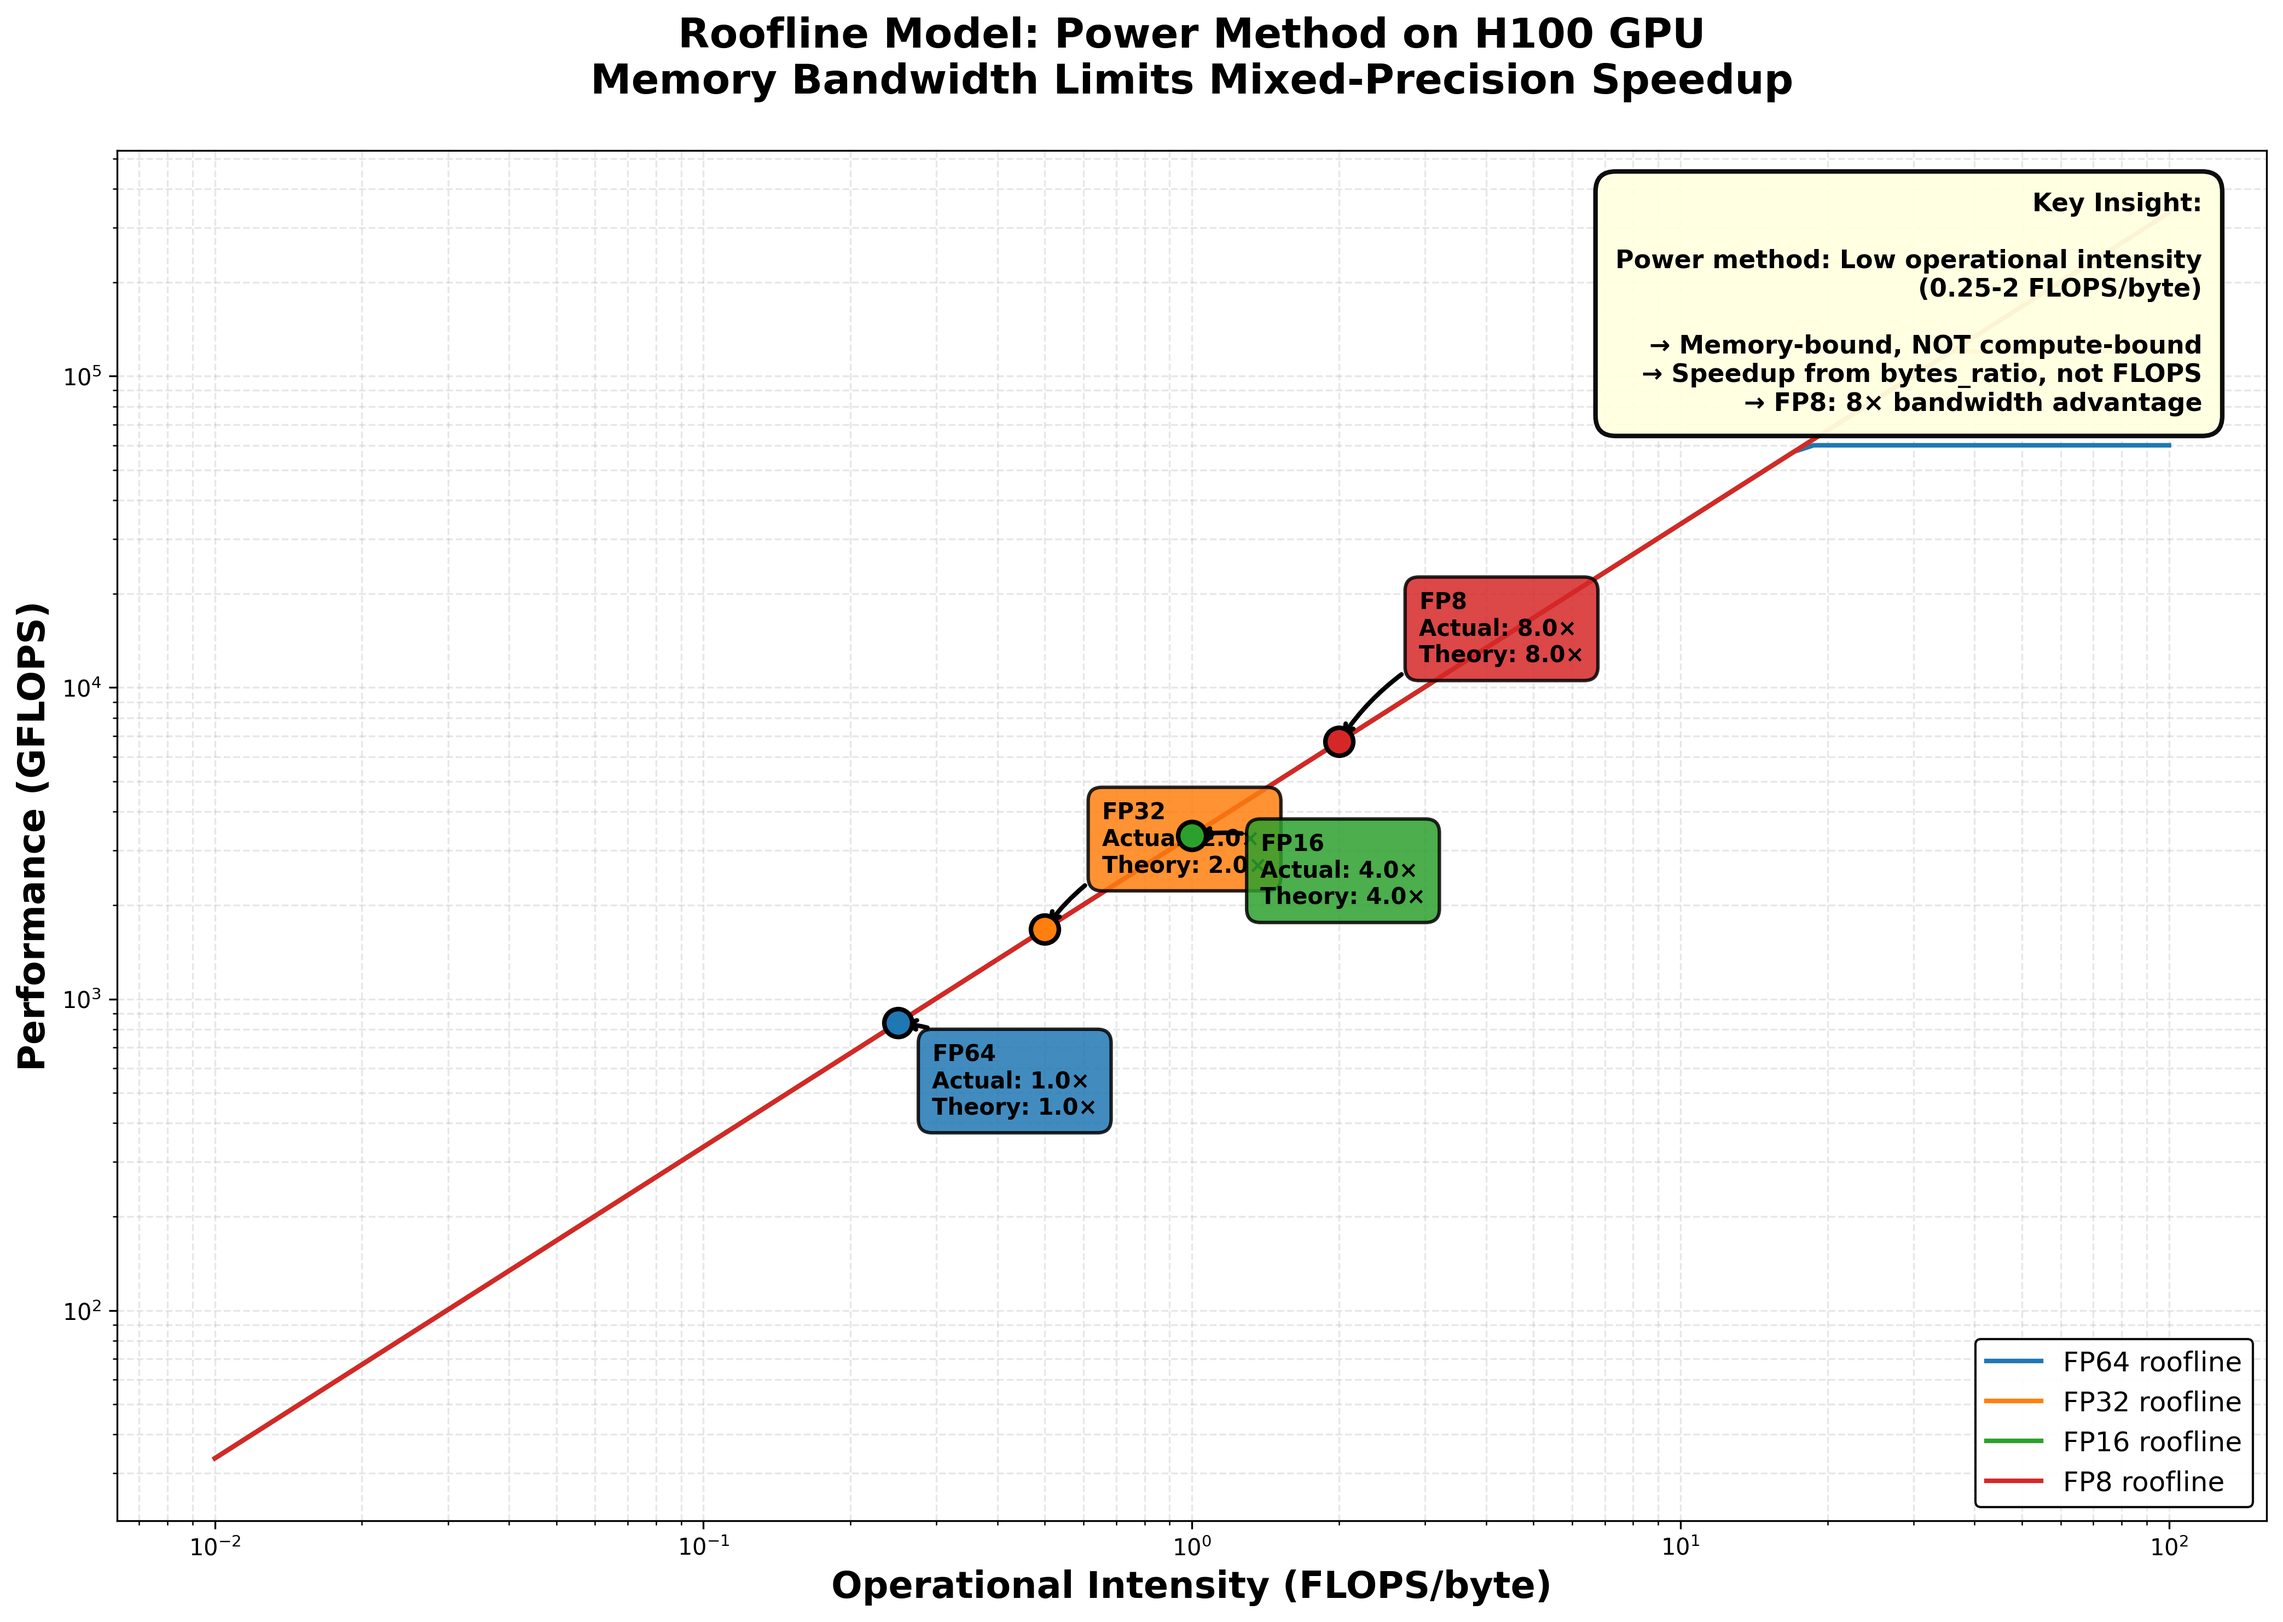
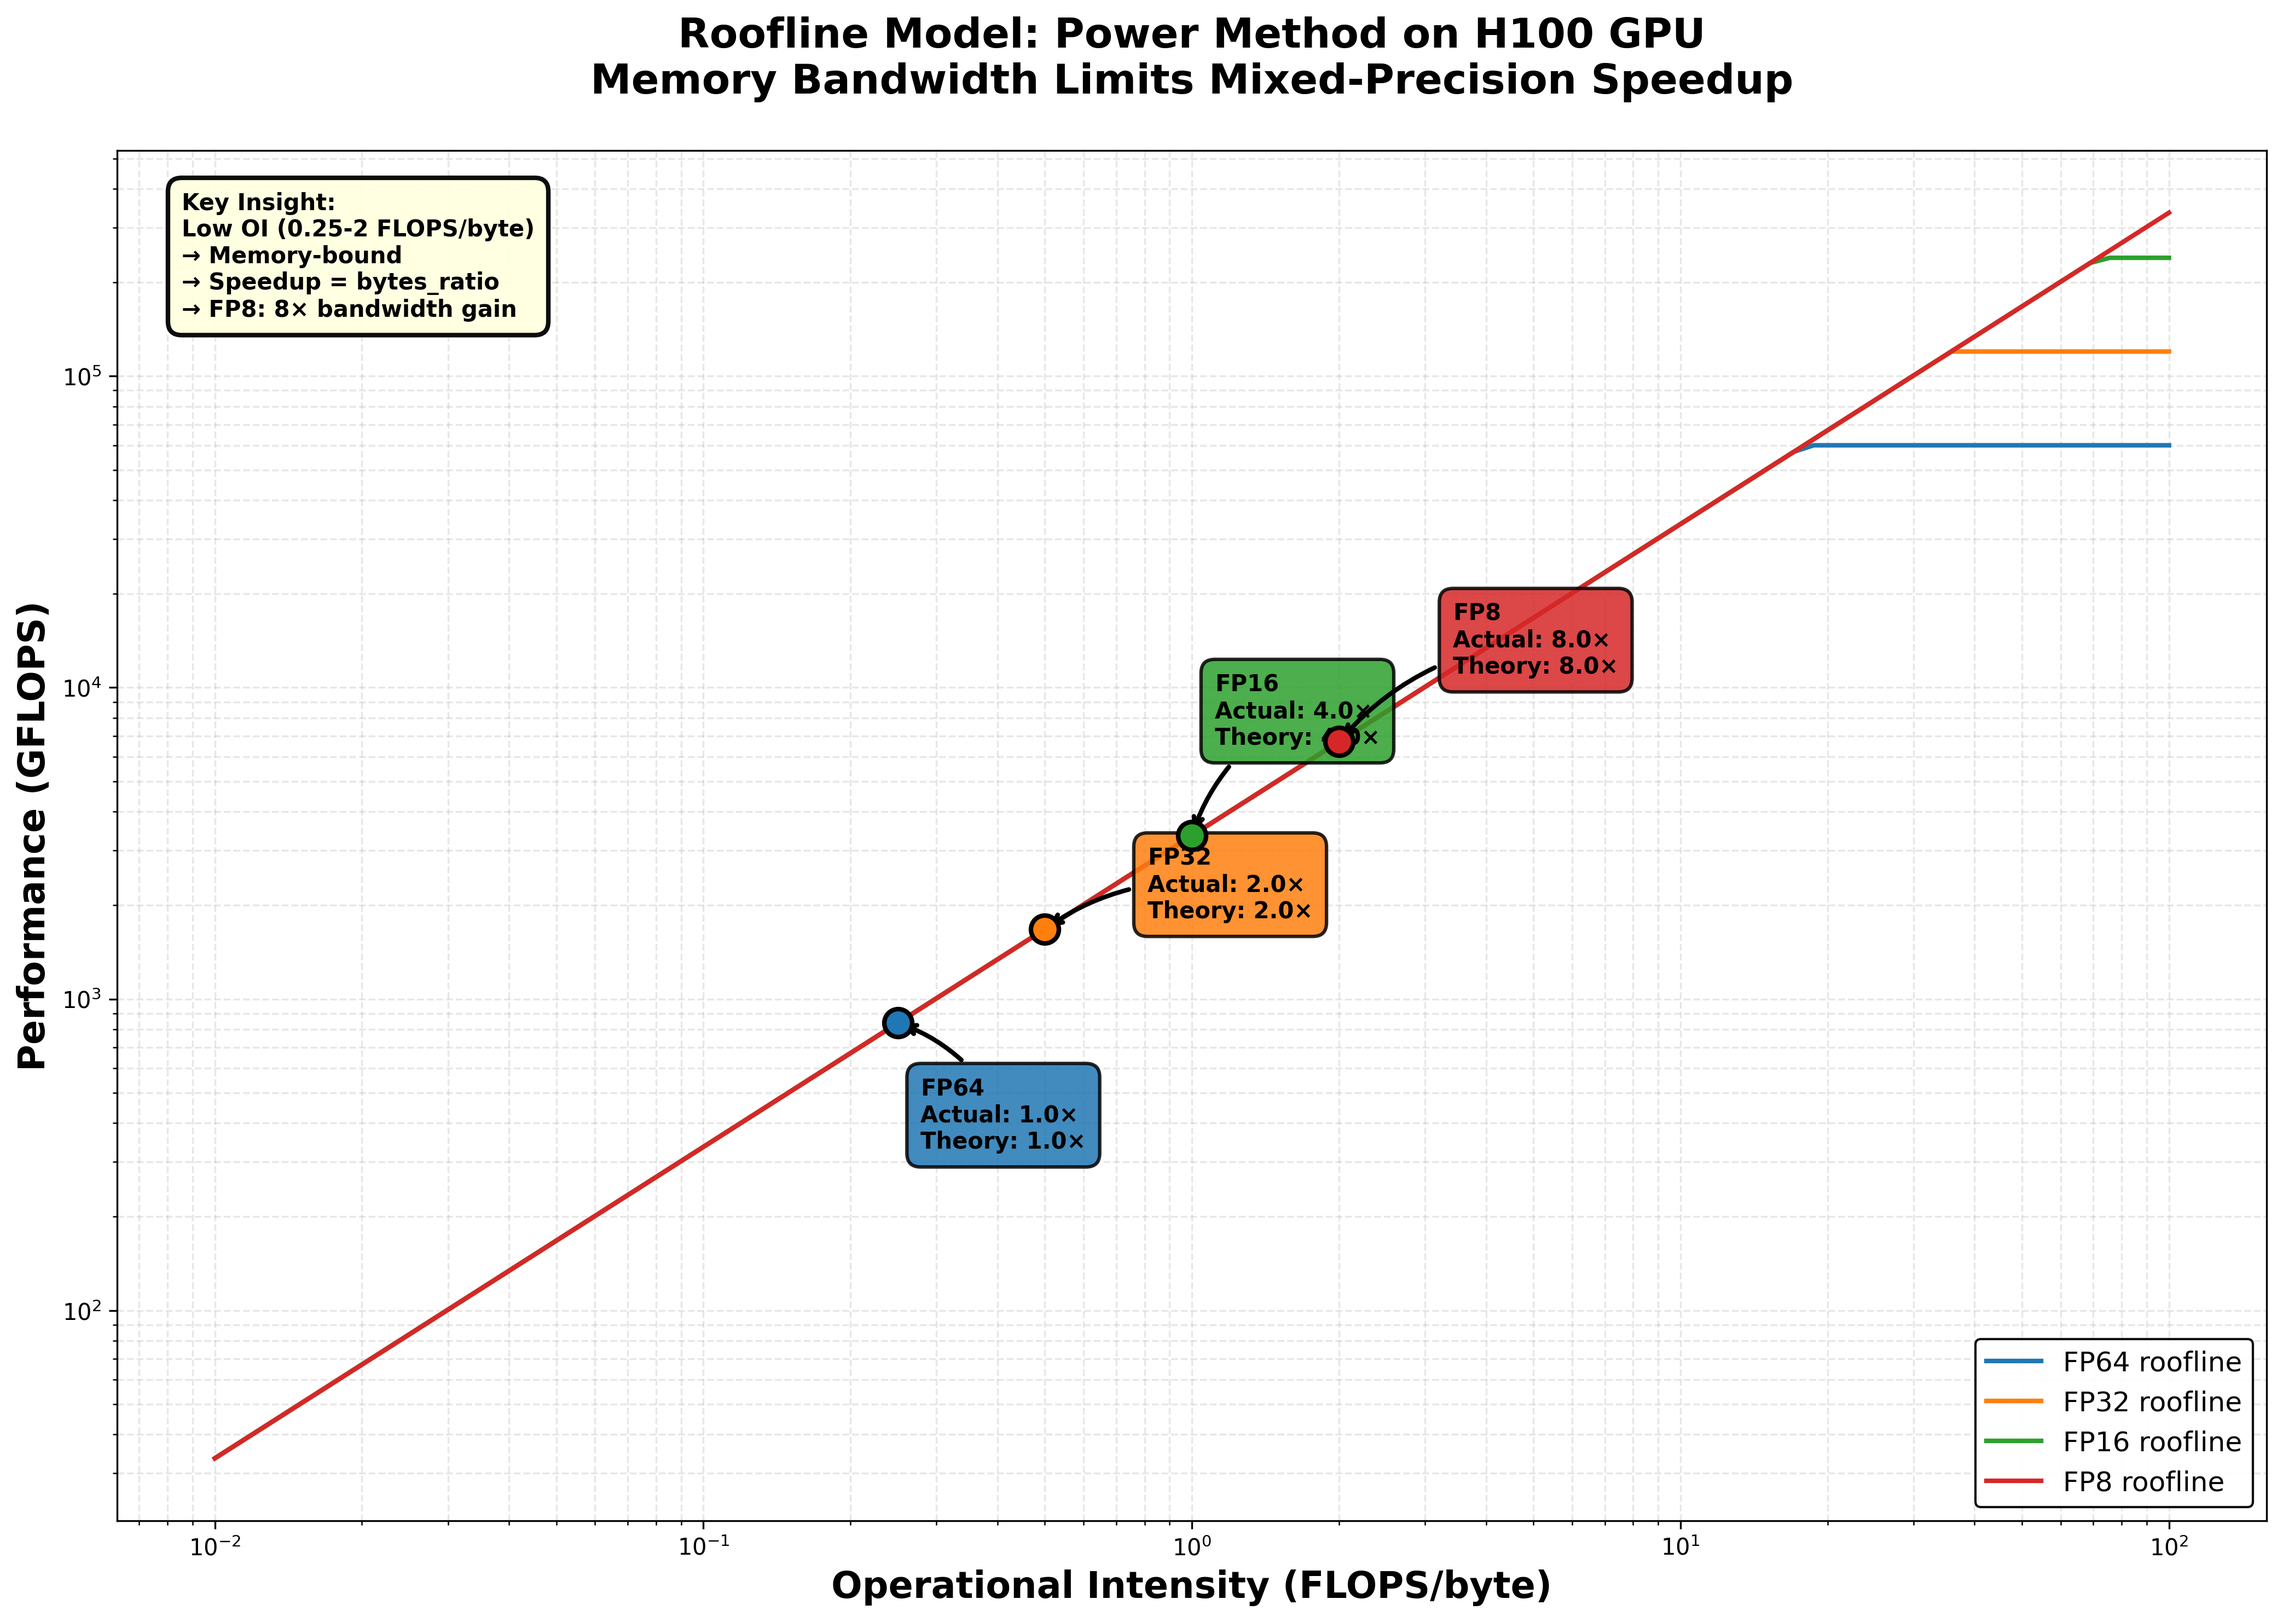
style: eliminate annotation overlaps in roofline plot
- Reposition FP32/FP16 annotations to prevent overlap
- Move key insight box to top-left (out of annotation zone)
- More compact text box for cleaner layout
- FP64: below-left, FP32: far-right, FP16: above-left, FP8: far-upper-right
- Publication-quality spacing and readability

Fixes overlap issue between FP32 and FP16 annotations.

diff --git a/experiments/generate_roofline.py b/experiments/generate_roofline.py
@@ -141,10 +141,10 @@ def generate_roofline_plot(output_path: Path) -> None:
 
         # Strategic annotation positions to avoid overlap
         annotation_positions = {
-            "FP64": (15, -40),  # Below
-            "FP32": (25, 25),  # Upper right
-            "FP16": (30, -30),  # Lower right
-            "FP8": (35, 35),  # Far upper right
+            "FP64": (10, -55),  # Below and left
+            "FP32": (45, 5),  # Far right, slightly up
+            "FP16": (10, 40),  # Above and left
+            "FP8": (50, 30),  # Far upper right
         }
 
         ax.annotate(
@@ -188,30 +188,29 @@ def generate_roofline_plot(output_path: Path) -> None:
         fancybox=True,
     )
 
-    # Add text box with key insight (repositioned to top-right for better visibility)
+    # Add text box with key insight (compact, top-left to avoid annotation area)
     textstr = (
-        "Key Insight:\n\n"
-        "Power method: Low operational intensity\n"
-        "(0.25-2 FLOPS/byte)\n\n"
-        "→ Memory-bound, NOT compute-bound\n"
-        "→ Speedup from bytes_ratio, not FLOPS\n"
-        "→ FP8: 8× bandwidth advantage"
+        "Key Insight:\n"
+        "Low OI (0.25-2 FLOPS/byte)\n"
+        "→ Memory-bound\n"
+        "→ Speedup = bytes_ratio\n"
+        "→ FP8: 8× bandwidth gain"
     )
     props = {
-        "boxstyle": "round,pad=0.8",
+        "boxstyle": "round,pad=0.6",
         "facecolor": "lightyellow",
         "alpha": 0.95,
         "edgecolor": "black",
         "linewidth": 2,
     }
     ax.text(
-        0.97,
+        0.03,
         0.97,
         textstr,
         transform=ax.transAxes,
-        fontsize=11,
+        fontsize=10,
         verticalalignment="top",
-        horizontalalignment="right",
+        horizontalalignment="left",
         bbox=props,
         fontweight="bold",
     )
